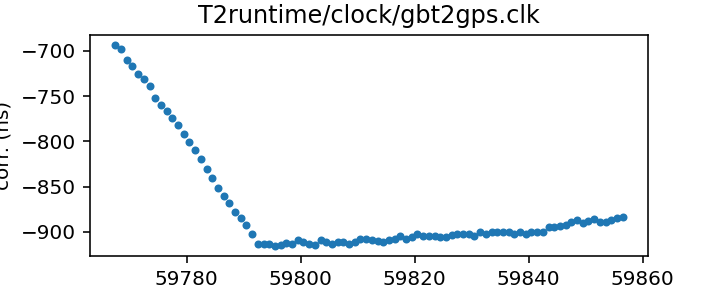
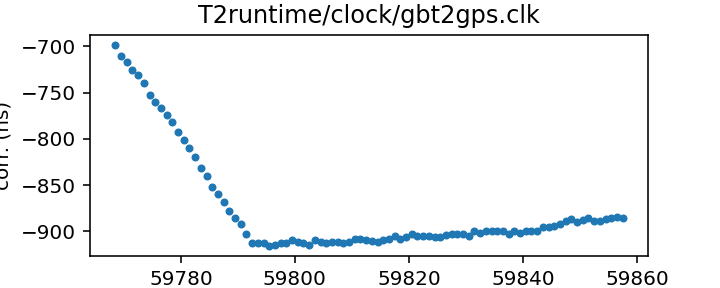
Routine gh-pages update from Github action Thu Oct  6 20:42:20 UTC 2022

diff --git a/status.md b/status.md
@@ -13,17 +13,17 @@ name of each clock file links to a page with more details.
 
 | Name | File | Corrections start | Corrections end | Last check date | Last check result 
 |:--- |:--- | --- | --- | --- |:--- 
-| [GPS to UTC](T2runtime/clock/gps2utc.clk.html) | `T2runtime/clock/gps2utc.clk` | 1993-01-01 MJD 48988.0 | 2022-08-28 MJD 59819.0 | 2022-10-05 | Unchanged 
-| [GPS to UTC (Combined Clock)](T2runtime/clock/gps2utc_cc.clk.html) | `T2runtime/clock/gps2utc_cc.clk` | 1993-01-01 MJD 48988.0 | 2022-08-28 MJD 59819.0 | 2022-10-05 | Unchanged 
-| [GPS to UTC (Corrected)](T2runtime/clock/gps2utc_c0p.clk.html) | `T2runtime/clock/gps2utc_c0p.clk` | 2010-12-29 MJD 55559.0 | 2022-08-28 MJD 59819.0 | 2022-10-05 | Unchanged 
-| [GBT](tempo/clock/time_gbt.dat.html) | `tempo/clock/time_gbt.dat` | 2000-12-31 MJD 51909.5 | 2022-10-04 MJD 59856.5 | 2022-10-05 | Updated 
-| [GBT (TEMPO2 converted from TEMPO)](T2runtime/clock/gbt2gps.clk.html) | `T2runtime/clock/gbt2gps.clk` | 2000-12-31 MJD 51909.5 | 2022-10-04 MJD 59856.5 | 2022-10-05 | Updated 
+| [GPS to UTC](T2runtime/clock/gps2utc.clk.html) | `T2runtime/clock/gps2utc.clk` | 1993-01-01 MJD 48988.0 | 2022-08-28 MJD 59819.0 | 2022-10-06 | Unchanged 
+| [GPS to UTC (Combined Clock)](T2runtime/clock/gps2utc_cc.clk.html) | `T2runtime/clock/gps2utc_cc.clk` | 1993-01-01 MJD 48988.0 | 2022-08-28 MJD 59819.0 | 2022-10-06 | Unchanged 
+| [GPS to UTC (Corrected)](T2runtime/clock/gps2utc_c0p.clk.html) | `T2runtime/clock/gps2utc_c0p.clk` | 2010-12-29 MJD 55559.0 | 2022-08-28 MJD 59819.0 | 2022-10-06 | Unchanged 
+| [GBT](tempo/clock/time_gbt.dat.html) | `tempo/clock/time_gbt.dat` | 2000-12-31 MJD 51909.5 | 2022-10-05 MJD 59857.5 | 2022-10-06 | Updated 
+| [GBT (TEMPO2 converted from TEMPO)](T2runtime/clock/gbt2gps.clk.html) | `T2runtime/clock/gbt2gps.clk` | 2000-12-31 MJD 51909.5 | 2022-10-05 MJD 59857.5 | 2022-10-06 | Updated 
 | [Jodrell Bank](T2runtime/clock/jb2gps.clk.html) | `T2runtime/clock/jb2gps.clk` | 2006-10-13 MJD 54021.4 | 2021-11-03 MJD 59521.0 | 2022-10-05 | Unchanged 
 | [Jodrell Bank Roach](T2runtime/clock/jbroach2jb.clk.html) | `T2runtime/clock/jbroach2jb.clk` | 2006-10-13 MJD 54021.4 | 2018-03-20 MJD 58197.6 | 2022-10-05 | Unchanged 
 | [Jodrell Bank DFB](T2runtime/clock/jbdfb2jb.clk.html) | `T2runtime/clock/jbdfb2jb.clk` | 2006-10-13 MJD 54021.4 | 2017-05-11 MJD 57884.0 | 2022-10-05 | Unchanged 
 | [Meerkat (observatory)](T2runtime/clock/mk2utc_observatory.clk.html) | `T2runtime/clock/mk2utc_observatory.clk` | 2019-01-01 MJD 58484.0 | 2022-08-28 MJD 59820.0 | 2022-10-03 | **Failed to download** 
-| [Leap seconds](tempo/clock/leap.sec.html) | `tempo/clock/leap.sec` | 1972-07-01 MJD 41499.0 | 2017-01-01 MJD 57754.0 | 2022-10-05 | Unchanged 
-| [UT1 table](tempo/clock/ut1.dat.html) | `tempo/clock/ut1.dat` | 1973-01-02 MJD 41684.0 | 2023-10-07 MJD 60224.0 | 2022-10-05 | Unchanged 
+| [Leap seconds](tempo/clock/leap.sec.html) | `tempo/clock/leap.sec` | 1972-07-01 MJD 41499.0 | 2017-01-01 MJD 57754.0 | 2022-10-06 | Unchanged 
+| [UT1 table](tempo/clock/ut1.dat.html) | `tempo/clock/ut1.dat` | 1973-01-02 MJD 41684.0 | 2023-10-14 MJD 60231.0 | 2022-10-06 | Updated 
 
 
 
@@ -63,21 +63,21 @@ name of each clock file links to a page with more details.
 
 | Name | File | Corrections start | Corrections end | Last check date | Last check result 
 |:--- |:--- | --- | --- | --- |:--- 
-| [GPS to UTC (TEMPO2)](T2runtime/clock/gps2utc_tempo2.clk.html) | `T2runtime/clock/gps2utc_tempo2.clk` | 1996-03-27 MJD 50169.0 | 2020-10-27 MJD 59149.0 | 2022-09-29 | Unchanged 
+| [GPS to UTC (TEMPO2)](T2runtime/clock/gps2utc_tempo2.clk.html) | `T2runtime/clock/gps2utc_tempo2.clk` | 1996-03-27 MJD 50169.0 | 2020-10-27 MJD 59149.0 | 2022-10-06 | Unchanged 
 | [GBT (TEMPO2)](T2runtime/clock/gbt2gps_tempo2.clk.html) | `T2runtime/clock/gbt2gps_tempo2.clk` | 2000-12-31 MJD 51909.5 | 2020-02-25 MJD 58904.5 | 2022-10-03 | Unchanged 
-| [Jodrell Bank (TEMPO)](tempo/clock/time_jb.dat.html) | `tempo/clock/time_jb.dat` | 2006-10-13 MJD 54021.4 | 2019-05-13 MJD 58616.2 | 2022-09-29 | Unchanged 
-| [VLA](tempo/clock/time_vla.dat.html) | `tempo/clock/time_vla.dat` | 1990-10-27 MJD 48191.2 | 2021-03-07 MJD 59280.5 | 2022-09-29 | **Failed to download** 
+| [Jodrell Bank (TEMPO)](tempo/clock/time_jb.dat.html) | `tempo/clock/time_jb.dat` | 2006-10-13 MJD 54021.4 | 2019-05-13 MJD 58616.2 | 2022-10-06 | Unchanged 
+| [VLA](tempo/clock/time_vla.dat.html) | `tempo/clock/time_vla.dat` | 1990-10-27 MJD 48191.2 | 2021-03-07 MJD 59280.5 | 2022-10-06 | **Failed to download** 
 | [VLA (TEMPO2)](T2runtime/clock/vla2gps.clk.html) | `T2runtime/clock/vla2gps.clk` | 2015-02-01 MJD 57054.6 | 2021-03-07 MJD 59280.5 | 2022-10-05 | Unchanged 
 | [VLA to NIST](T2runtime/clock/vla2nist.clk.html) | `T2runtime/clock/vla2nist.clk` | 1990-10-27 MJD 48191.2 | 1993-11-13 MJD 49304.0 | 2022-10-05 | Unchanged 
-| [FAST](tempo/clock/time_fast.dat.html) | `tempo/clock/time_fast.dat` | 2017-07-26 MJD 57960.4 | 2019-09-18 MJD 58744.0 | 2022-09-29 | **Failed to download** 
-| [WSRT](T2runtime/clock/wsrt2gps.clk.html) | `T2runtime/clock/wsrt2gps.clk` | 1999-01-01 MJD 51179.5 | 2015-06-29 MJD 57202.1 | 2022-09-29 | Unchanged 
-| [WSRT (TEMPO)](tempo/clock/time_wsrt.dat.html) | `tempo/clock/time_wsrt.dat` | 1987-07-24 MJD 47000.0 | 2007-12-24 MJD 54458.0 | 2022-09-29 | **Validation failed** 
+| [FAST](tempo/clock/time_fast.dat.html) | `tempo/clock/time_fast.dat` | 2017-07-26 MJD 57960.4 | 2019-09-18 MJD 58744.0 | 2022-10-06 | **Failed to download** 
+| [WSRT](T2runtime/clock/wsrt2gps.clk.html) | `T2runtime/clock/wsrt2gps.clk` | 1999-01-01 MJD 51179.5 | 2015-06-29 MJD 57202.1 | 2022-10-06 | Unchanged 
+| [WSRT (TEMPO)](tempo/clock/time_wsrt.dat.html) | `tempo/clock/time_wsrt.dat` | 1987-07-24 MJD 47000.0 | 2007-12-24 MJD 54458.0 | 2022-10-06 | **Validation failed** 
 | [Parkes](T2runtime/clock/pks2gps.clk.html) | `T2runtime/clock/pks2gps.clk` | 1858-11-17 MJD 0.0 | 2019-07-31 MJD 58695.4 | 2022-10-05 | Unchanged 
-| [Parkes (TEMPO)](tempo/clock/time_pks.dat.html) | `tempo/clock/time_pks.dat` | 1979-05-07 MJD 44000.0 | 2011-07-03 MJD 55745.8 | 2022-09-29 | **Validation failed** 
+| [Parkes (TEMPO)](tempo/clock/time_pks.dat.html) | `tempo/clock/time_pks.dat` | 1979-05-07 MJD 44000.0 | 2011-07-03 MJD 55745.8 | 2022-10-06 | **Validation failed** 
 | [SRT](T2runtime/clock/srt2gps.clk.html) | `T2runtime/clock/srt2gps.clk` | 2013-03-20 MJD 56371.0 | 2019-12-11 MJD 58828.0 | 2022-10-05 | Unchanged 
 | [Effelsberg](T2runtime/clock/eff2gps.clk.html) | `T2runtime/clock/eff2gps.clk` | 1993-11-29 MJD 49320.0 | 2015-06-22 MJD 57195.5 | 2022-10-05 | Unchanged 
 | [Effelsberg Asterix/PSRix](T2runtime/clock/effix2gps.clk.html) | `T2runtime/clock/effix2gps.clk` | 2011-01-01 MJD 55562.5 | 2021-03-21 MJD 59294.5 | 2022-10-05 | Unchanged 
-| [NUPPI](tempo/clock/time_nuppi.dat.html) | `tempo/clock/time_nuppi.dat` | 2005-03-07 MJD 53436.0 | 2015-11-08 MJD 57334.6 | 2022-09-29 | Unchanged 
+| [NUPPI](tempo/clock/time_nuppi.dat.html) | `tempo/clock/time_nuppi.dat` | 2005-03-07 MJD 53436.0 | 2015-11-08 MJD 57334.6 | 2022-10-06 | Unchanged 
 | [Meerkat (TEMPO2)](T2runtime/clock/mk2utc.clk.html) | `T2runtime/clock/mk2utc.clk` | 2019-01-01 MJD 58484.0 | 2021-02-22 MJD 59268.0 | 2022-10-05 | Unchanged 
 | [MOST](T2runtime/clock/mo2gps.clk.html) | `T2runtime/clock/mo2gps.clk` | 2003-12-27 MJD 53000.0 | 2018-09-06 MJD 58367.0 | 2022-10-05 | Unchanged 
 | [Nancay to obspm](T2runtime/clock/ncyobs2obspm.clk.html) | `T2runtime/clock/ncyobs2obspm.clk` | 1988-05-18 MJD 47299.6 | 2021-11-01 MJD 59519.6 | 2022-10-05 | Unchanged 

diff --git a/tempo/clock/time_pks.dat.md b/tempo/clock/time_pks.dat.md
@@ -19,12 +19,11 @@ in the same file, distinguished only by observatory code.
 | Clock file start | 1979-05-07 MJD 44000.0 |
 | Clock file end | 2011-07-03 MJD 55745.8 |
 | Update interval (days) | 7 |
-| Last update attempt | 2022-09-29 |
+| Last update attempt | 2022-10-06 |
 | Last update result | Validation failed |
 
 Log entries from the last few update attempts:
 ```
-2022-07-28 20:35:31.301 - Validation failed: Unable to read new version of tempo/clock/time_pks.dat: Clock file /tmp/astropy-download-1680-r06lf7o3 appears to be out of order
 2022-08-04 20:34:41.857 - Validation failed: Unable to read new version of tempo/clock/time_pks.dat: Clock file /tmp/astropy-download-1668-z0equg7z appears to be out of order
 2022-08-11 20:33:40.663 - Validation failed: Unable to read new version of tempo/clock/time_pks.dat: Clock file /tmp/astropy-download-1654-kb8uhgqd appears to be out of order
 2022-08-18 20:36:52.446 - Validation failed: Unable to read new version of tempo/clock/time_pks.dat: Clock file /tmp/astropy-download-1707-2tdw70nb appears to be out of order
@@ -34,6 +33,7 @@ Log entries from the last few update attempts:
 2022-09-15 20:41:00.949 - Validation failed: Unable to read new version of tempo/clock/time_pks.dat: Clock file /tmp/astropy-download-1665-hg0o4nmt appears to be out of order
 2022-09-22 20:39:27.672 - Validation failed: Unable to read new version of tempo/clock/time_pks.dat: Clock file /tmp/astropy-download-1731-md2w727v appears to be out of order
 2022-09-29 20:43:08.532 - Validation failed: Unable to read new version of tempo/clock/time_pks.dat: Clock file /tmp/astropy-download-1670-yxq_zqy5 appears to be out of order
+2022-10-06 20:41:55.213 - Validation failed: Unable to read new version of tempo/clock/time_pks.dat: Clock file /tmp/astropy-download-1835-pho_7rq0 appears to be out of order
 ```
 [Full log](https://raw.githubusercontent.com/ipta/pulsar-clock-corrections/main/log/tempo/clock/time_pks.dat.log)
 

diff --git a/tempo/clock/time_wsrt.dat.md b/tempo/clock/time_wsrt.dat.md
@@ -19,12 +19,11 @@ should be the same information.
 | Clock file start | 1987-07-24 MJD 47000.0 |
 | Clock file end | 2007-12-24 MJD 54458.0 |
 | Update interval (days) | 7 |
-| Last update attempt | 2022-09-29 |
+| Last update attempt | 2022-10-06 |
 | Last update result | Validation failed |
 
 Log entries from the last few update attempts:
 ```
-2022-07-28 20:35:31.041 - Validation failed: Unable to read new version of tempo/clock/time_wsrt.dat: Clock file /tmp/astropy-download-1680-ud_zwd6k appears to be out of order
 2022-08-04 20:34:40.942 - Validation failed: Unable to read new version of tempo/clock/time_wsrt.dat: Clock file /tmp/astropy-download-1668-scc6b50b appears to be out of order
 2022-08-11 20:33:40.256 - Validation failed: Unable to read new version of tempo/clock/time_wsrt.dat: Clock file /tmp/astropy-download-1654-l2sd24rf appears to be out of order
 2022-08-18 20:36:51.805 - Validation failed: Unable to read new version of tempo/clock/time_wsrt.dat: Clock file /tmp/astropy-download-1707-xtq_0u1k appears to be out of order
@@ -34,6 +33,7 @@ Log entries from the last few update attempts:
 2022-09-15 20:41:00.601 - Validation failed: Unable to read new version of tempo/clock/time_wsrt.dat: Clock file /tmp/astropy-download-1665-5wox4f37 appears to be out of order
 2022-09-22 20:39:27.254 - Validation failed: Unable to read new version of tempo/clock/time_wsrt.dat: Clock file /tmp/astropy-download-1731-9z7agicr appears to be out of order
 2022-09-29 20:43:08.152 - Validation failed: Unable to read new version of tempo/clock/time_wsrt.dat: Clock file /tmp/astropy-download-1670-r1ox93xv appears to be out of order
+2022-10-06 20:41:54.543 - Validation failed: Unable to read new version of tempo/clock/time_wsrt.dat: Clock file /tmp/astropy-download-1835-gtjyjp4z appears to be out of order
 ```
 [Full log](https://raw.githubusercontent.com/ipta/pulsar-clock-corrections/main/log/tempo/clock/time_wsrt.dat.log)
 

diff --git a/T2runtime/clock/gbt2gps.clk.md b/T2runtime/clock/gbt2gps.clk.md
@@ -23,14 +23,13 @@ If questions arise about the conversion, contact Anne Archibald
 | Format | tempo2 |
 | Bogus last correction | False |
 | Clock file start | 2000-12-31 MJD 51909.5 |
-| Clock file end | 2022-10-04 MJD 59856.5 |
+| Clock file end | 2022-10-05 MJD 59857.5 |
 | Update interval (days) | 1 |
-| Last update attempt | 2022-10-05 |
+| Last update attempt | 2022-10-06 |
 | Last update result | Updated |
 
 Log entries from the last few update attempts:
 ```
-2022-09-26 20:39:24.417 - Updated
 2022-09-27 20:41:45.110 - Updated
 2022-09-28 20:41:24.484 - Updated
 2022-09-29 20:43:05.712 - Updated
@@ -40,12 +39,13 @@ Log entries from the last few update attempts:
 2022-10-03 20:42:12.939 - Updated
 2022-10-04 20:43:59.417 - Updated
 2022-10-05 20:42:13.766 - Updated
+2022-10-06 20:41:51.390 - Updated
 ```
 [Full log](https://raw.githubusercontent.com/ipta/pulsar-clock-corrections/main/log/T2runtime/clock/gbt2gps.clk.log)
 
 Leading comments from clock file:
 
-    # This file was automatically converted from tempo/clock/time_gbt.dat on 2022-10-05 20:42:13.677
+    # This file was automatically converted from tempo/clock/time_gbt.dat on 2022-10-06 20:41:51.322
 
 
 

diff --git a/tempo/clock/time_vla.dat.md b/tempo/clock/time_vla.dat.md
@@ -17,12 +17,11 @@ This file is pulled from the PINT repository and may not be fully up-to-date.
 | Clock file start | 1990-10-27 MJD 48191.2 |
 | Clock file end | 2021-03-07 MJD 59280.5 |
 | Update interval (days) | 7 |
-| Last update attempt | 2022-09-29 |
+| Last update attempt | 2022-10-06 |
 | Last update result | Failed to download |
 
 Log entries from the last few update attempts:
 ```
-2022-07-28 20:35:29.913 - Failed to download: HTTP Error 404: Not Found
 2022-08-04 20:34:40.227 - Failed to download: HTTP Error 404: Not Found
 2022-08-11 20:33:39.364 - Failed to download: HTTP Error 404: Not Found
 2022-08-18 20:36:50.640 - Failed to download: HTTP Error 404: Not Found
@@ -32,6 +31,7 @@ Log entries from the last few update attempts:
 2022-09-15 20:40:59.671 - Failed to download: HTTP Error 404: Not Found
 2022-09-22 20:39:26.359 - Failed to download: HTTP Error 404: Not Found
 2022-09-29 20:43:07.208 - Failed to download: HTTP Error 404: Not Found
+2022-10-06 20:41:52.923 - Failed to download: HTTP Error 404: Not Found
 ```
 [Full log](https://raw.githubusercontent.com/ipta/pulsar-clock-corrections/main/log/tempo/clock/time_vla.dat.log)
 

diff --git a/tempo/clock/time_fast.dat.md b/tempo/clock/time_fast.dat.md
@@ -24,12 +24,11 @@ to contact is 缪晨晨 <miaocc@bao.ac.cn>, Chenchen Miao.
 | Clock file start | 2017-07-26 MJD 57960.4 |
 | Clock file end | 2019-09-18 MJD 58744.0 |
 | Update interval (days) | 7 |
-| Last update attempt | 2022-09-29 |
+| Last update attempt | 2022-10-06 |
 | Last update result | Failed to download |
 
 Log entries from the last few update attempts:
 ```
-2022-07-28 20:35:30.183 - Failed to download: HTTP Error 404: Not Found
 2022-08-04 20:34:40.348 - Failed to download: HTTP Error 404: Not Found
 2022-08-11 20:33:39.507 - Failed to download: HTTP Error 404: Not Found
 2022-08-18 20:36:50.783 - Failed to download: HTTP Error 404: Not Found
@@ -39,6 +38,7 @@ Log entries from the last few update attempts:
 2022-09-15 20:40:59.823 - Failed to download: HTTP Error 404: Not Found
 2022-09-22 20:39:26.512 - Failed to download: HTTP Error 404: Not Found
 2022-09-29 20:43:07.428 - Failed to download: HTTP Error 404: Not Found
+2022-10-06 20:41:53.004 - Failed to download: HTTP Error 404: Not Found
 ```
 [Full log](https://raw.githubusercontent.com/ipta/pulsar-clock-corrections/main/log/tempo/clock/time_fast.dat.log)
 

diff --git a/tempo/clock/ut1.dat.md b/tempo/clock/ut1.dat.md
@@ -28,14 +28,13 @@ If there are any questions, contact Anne Archibald
 | File | `tempo/clock/ut1.dat` |
 | Authority | observatory |
 | File start | 1973-01-02 MJD 41684.0 |
-| File end | 2023-10-07 MJD 60224.0 |
+| File end | 2023-10-14 MJD 60231.0 |
 | Update interval (days) | 0 |
-| Last update attempt | 2022-10-05 |
-| Last update result | Unchanged |
+| Last update attempt | 2022-10-06 |
+| Last update result | Updated |
 
 Log entries from the last few update attempts:
 ```
-2022-09-26 20:39:45.492 - Unchanged
 2022-09-27 20:41:57.840 - Unchanged
 2022-09-28 20:41:43.404 - Unchanged
 2022-09-29 20:43:21.453 - Updated
@@ -45,5 +44,6 @@ Log entries from the last few update attempts:
 2022-10-03 20:42:32.045 - Unchanged
 2022-10-04 20:44:07.154 - Unchanged
 2022-10-05 20:42:33.854 - Unchanged
+2022-10-06 20:42:03.973 - Updated
 ```
 [Full log](https://raw.githubusercontent.com/ipta/pulsar-clock-corrections/main/log/tempo/clock/ut1.dat.log)

diff --git a/tempo/clock/time_gbt.dat.md b/tempo/clock/time_gbt.dat.md
@@ -18,14 +18,13 @@ If questions arise, contact Ryan S. Lynch <rlynch@nrao.edu>.
 | Format | tempo |
 | Bogus last correction | False |
 | Clock file start | 2000-12-31 MJD 51909.5 |
-| Clock file end | 2022-10-04 MJD 59856.5 |
+| Clock file end | 2022-10-05 MJD 59857.5 |
 | Update interval (days) | 1 |
-| Last update attempt | 2022-10-05 |
+| Last update attempt | 2022-10-06 |
 | Last update result | Updated |
 
 Log entries from the last few update attempts:
 ```
-2022-09-26 20:39:23.953 - Updated
 2022-09-27 20:41:45.004 - Updated
 2022-09-28 20:41:24.413 - Updated
 2022-09-29 20:43:05.621 - Updated
@@ -35,6 +34,7 @@ Log entries from the last few update attempts:
 2022-10-03 20:42:12.682 - Updated
 2022-10-04 20:43:59.322 - Updated
 2022-10-05 20:42:13.674 - Updated
+2022-10-06 20:41:51.320 - Updated
 ```
 [Full log](https://raw.githubusercontent.com/ipta/pulsar-clock-corrections/main/log/tempo/clock/time_gbt.dat.log)
 

diff --git a/T2runtime/clock/wsrt2gps.clk.md b/T2runtime/clock/wsrt2gps.clk.md
@@ -16,12 +16,11 @@ This file is pulled from the TEMPO2 repository and may not be fully up-to-date.
 | Clock file start | 1999-01-01 MJD 51179.5 |
 | Clock file end | 2015-06-29 MJD 57202.1 |
 | Update interval (days) | 7 |
-| Last update attempt | 2022-09-29 |
+| Last update attempt | 2022-10-06 |
 | Last update result | Unchanged |
 
 Log entries from the last few update attempts:
 ```
-2022-07-28 20:35:30.731 - Unchanged
 2022-08-04 20:34:40.580 - Unchanged
 2022-08-11 20:33:39.902 - Unchanged
 2022-08-18 20:36:51.187 - Unchanged
@@ -31,6 +30,7 @@ Log entries from the last few update attempts:
 2022-09-15 20:41:00.194 - Unchanged
 2022-09-22 20:39:26.925 - Unchanged
 2022-09-29 20:43:07.902 - Unchanged
+2022-10-06 20:41:53.457 - Unchanged
 ```
 [Full log](https://raw.githubusercontent.com/ipta/pulsar-clock-corrections/main/log/T2runtime/clock/wsrt2gps.clk.log)
 

diff --git a/tempo/clock/time_nuppi.dat.md b/tempo/clock/time_nuppi.dat.md
@@ -16,12 +16,11 @@ This file is pulled from the TEMPO repository and may not be fully up-to-date.
 | Clock file start | 2005-03-07 MJD 53436.0 |
 | Clock file end | 2015-11-08 MJD 57334.6 |
 | Update interval (days) | 7 |
-| Last update attempt | 2022-09-29 |
+| Last update attempt | 2022-10-06 |
 | Last update result | Unchanged |
 
 Log entries from the last few update attempts:
 ```
-2022-07-28 20:35:31.539 - Unchanged
 2022-08-04 20:34:42.236 - Unchanged
 2022-08-11 20:33:42.484 - Unchanged
 2022-08-18 20:36:52.807 - Unchanged
@@ -31,6 +30,7 @@ Log entries from the last few update attempts:
 2022-09-15 20:41:02.222 - Unchanged
 2022-09-22 20:39:27.986 - Unchanged
 2022-09-29 20:43:08.835 - Unchanged
+2022-10-06 20:41:55.702 - Unchanged
 ```
 [Full log](https://raw.githubusercontent.com/ipta/pulsar-clock-corrections/main/log/tempo/clock/time_nuppi.dat.log)
 

diff --git a/tempo/clock/time_jb.dat.md b/tempo/clock/time_jb.dat.md
@@ -16,12 +16,11 @@ This file is pulled from the TEMPO repository and may not be fully up-to-date.
 | Clock file start | 2006-10-13 MJD 54021.4 |
 | Clock file end | 2019-05-13 MJD 58616.2 |
 | Update interval (days) | 7 |
-| Last update attempt | 2022-09-29 |
+| Last update attempt | 2022-10-06 |
 | Last update result | Unchanged |
 
 Log entries from the last few update attempts:
 ```
-2022-07-28 20:35:29.621 - Unchanged
 2022-08-04 20:34:40.130 - Unchanged
 2022-08-11 20:33:39.197 - Unchanged
 2022-08-18 20:36:50.475 - Unchanged
@@ -31,6 +30,7 @@ Log entries from the last few update attempts:
 2022-09-15 20:40:59.504 - Unchanged
 2022-09-22 20:39:26.199 - Unchanged
 2022-09-29 20:43:06.998 - Unchanged
+2022-10-06 20:41:52.811 - Unchanged
 ```
 [Full log](https://raw.githubusercontent.com/ipta/pulsar-clock-corrections/main/log/tempo/clock/time_jb.dat.log)
 

diff --git a/T2runtime/clock/gps2utc_c0p.clk.md b/T2runtime/clock/gps2utc_c0p.clk.md
@@ -30,12 +30,11 @@ about the BIPM's published corrections, contact <tai@bipm.org>.
 | Clock file start | 2010-12-29 MJD 55559.0 |
 | Clock file end | 2022-08-28 MJD 59819.0 |
 | Update interval (days) | 1 |
-| Last update attempt | 2022-10-05 |
+| Last update attempt | 2022-10-06 |
 | Last update result | Unchanged |
 
 Log entries from the last few update attempts:
 ```
-2022-09-26 20:39:22.858 - Unchanged
 2022-09-27 20:41:43.987 - Unchanged
 2022-09-28 20:41:23.783 - Unchanged
 2022-09-29 20:43:04.699 - Unchanged
@@ -45,6 +44,7 @@ Log entries from the last few update attempts:
 2022-10-03 20:42:12.295 - Unchanged
 2022-10-04 20:43:58.684 - Unchanged
 2022-10-05 20:42:12.788 - Unchanged
+2022-10-06 20:41:50.814 - Unchanged
 ```
 [Full log](https://raw.githubusercontent.com/ipta/pulsar-clock-corrections/main/log/T2runtime/clock/gps2utc_c0p.clk.log)
 
